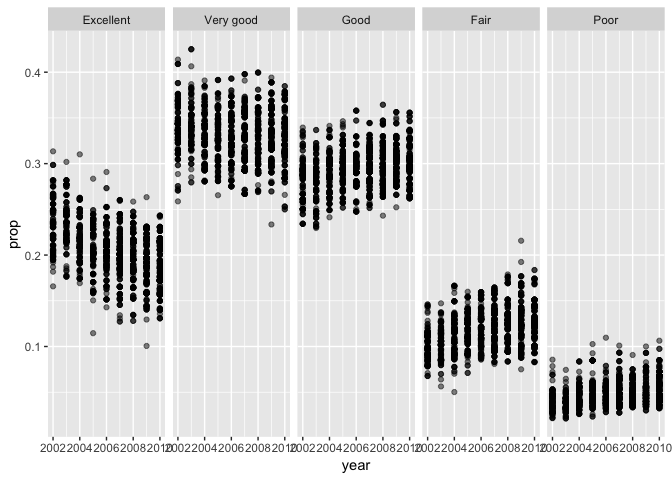
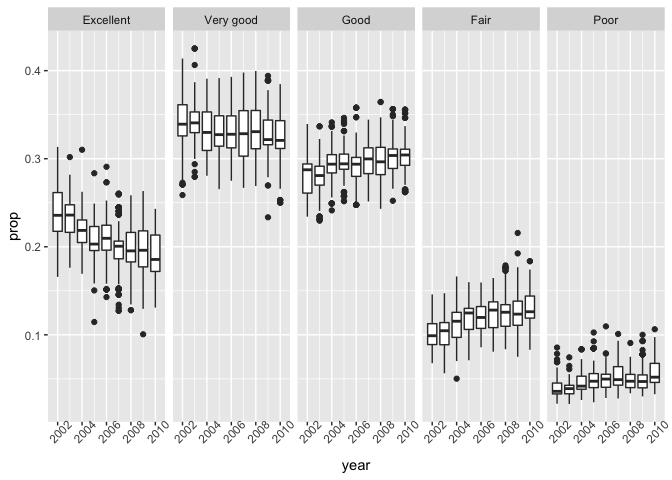
adding final code and text

diff --git a/p8105_hw3_ja3314.md b/p8105_hw3_ja3314.md
@@ -1,12 +1,11 @@
 p8105\_hw3\_ja3314
 ================
 Jaisal Amin
-10/12/2018
 
 Problem 1
 ---------
 
-Reading and cleaning BRFSS data:
+**Reading and cleaning BRFSS dataset:**
 
 ``` r
 brfss_df = filter(brfss_smart2010, Topic == "Overall Health", !is.na(Response)) %>% 
@@ -14,7 +13,7 @@ brfss_df = filter(brfss_smart2010, Topic == "Overall Health", !is.na(Response)) 
   mutate(response = factor(response, levels = c("Excellent", "Very good", "Good", "Fair", "Poor")))
 ```
 
-States that were observed at 7 locations in 2002:
+**States that were observed at 7 locations in 2002:**
 
 ``` r
 brfss_df %>% 
@@ -28,7 +27,9 @@ brfss_df %>%
 
     ## [1] "Connecticut"    "Florida"        "North Carolina"
 
-Spaghetti plot of number of locations in each state in 2002-2010:
+The states listed above all have 7 distinct locations where observations were taken.
+
+**Spaghetti plot of number of locations in each state in 2002-2010:**
 
 ``` r
 brfss_df %>%
@@ -41,7 +42,9 @@ brfss_df %>%
 
 ![](p8105_hw3_ja3314_files/figure-markdown_github/unnamed-chunk-3-1.png)
 
-Make a table showing, for the years 2002, 2006, and 2010, the mean and standard deviation of the proportion of “Excellent” responses across locations in NY State.
+The spaghetti plot gives a general idea of the typical number of locations across states however distinguishing between individual states is difficult. Since there are 51 different states, color-coding is probably not the most effective way of presenting results.
+
+**Mean and standard deviation of the proportion of “Excellent” responses across locations in NY State:**
 
 ``` r
 brfss_df %>%
@@ -51,19 +54,21 @@ brfss_df %>%
   group_by(locationdesc, year) %>% 
   mutate(sum = sum(sample_size)) %>%
   filter(response == "Excellent") %>%
-  mutate(prop_excel = sample_size/sum) %>%
+  mutate(prop_excellent = sample_size/sum) %>%
   group_by(year) %>% 
-  summarize(mean(prop_excel), sd(prop_excel)) %>% 
+  summarize(mean(prop_excellent), sd(prop_excellent)) %>% 
   knitr::kable()
 ```
 
-|  year|  mean(prop\_excel)|  sd(prop\_excel)|
-|-----:|------------------:|----------------:|
-|  2002|          0.2479209|        0.0398064|
-|  2006|          0.2183477|        0.0386777|
-|  2010|          0.2032255|        0.0459512|
+|  year|  mean(prop\_excellent)|  sd(prop\_excellent)|
+|-----:|----------------------:|--------------------:|
+|  2002|              0.2479209|            0.0398064|
+|  2006|              0.2183477|            0.0386777|
+|  2010|              0.2032255|            0.0459512|
 
-For each year and state, compute the average proportion in each response category (taking the average across locations in a state). Make a five-panel plot that shows, for each response category separately, the distribution of these state-level averages over time.
+The output shows that the standard deviation is relatively equal between all these years, although the mean fluctuates.
+
+**Five-panel plot showing, for each response category separately, the distribution of these state-level averages over time:**
 
 ``` r
 brfss_df %>% 
@@ -74,17 +79,21 @@ brfss_df %>%
   mutate(sum_response = sum(sample_size)) %>% 
   mutate(prop = sum_response/sum_state) %>%
   select(year, locationabbr, prop) %>%
-  ggplot(aes(x = year, y = prop)) +
-  geom_point(alpha = 0.5) +
-  facet_grid(~response)
+  ggplot(aes(x = year, y = prop, group = year)) +
+  geom_boxplot() +
+  facet_grid(~response) + 
+  theme_set(theme_bw() + theme(legend.position = "bottom")) + 
+  theme(axis.text.x = element_text(angle = 45))
 ```
 
 ![](p8105_hw3_ja3314_files/figure-markdown_github/unnamed-chunk-5-1.png)
 
+The above plots provide a decent way to visualize the distribution of averages across states, although you cannot distinguish between states, it is easier to determine measures of location.
+
 Problem 2
 ---------
 
-The `instacart` dataset is a tibble data frame with dimensions 1384617 rows and 15 columns. It contains information on specific products -- such as their names and what aisle they are located on -- as well as information about the individual orders themselves.
+The `instacart` dataset is a tibble data frame with dimensions 1384617 rows and 15 columns. This data is taken from the instacart shopping app It contains information on specific products -- such as their names and what aisle they are located on -- as well as information about the individual orders themselves. Each product is associated with an aisle number which corresponds to an aisle name and department number; for example, "organic half & half" is found in aisle \#53 - cream in department 16.
 
 **How many aisles are there and which aisles are the most items ordered from?**
 
@@ -105,26 +114,29 @@ aisle_count[which.max(aisle_count$n), 1]
     ##      <int>
     ## 1       83
 
-**Make a plot that shows the number of items ordered in each aisle. Order aisles sensibly, and organize your plot so others can read it.**
+There are 134 distinct aisles and the most number of items are ordered from aisle 83 - fresh vegetables.
+
+**Plot showing the number of items ordered in each aisle. Order aisles sensibly, and organize your plot so others can read it:**
 
 ``` r
-aisle_count %>% 
+aisle_1 = aisle_count %>% 
+  filter(aisle_id == 1:67) %>% 
   ggplot(aes(x = aisle_id, y = n)) +
-  geom_point()
+  geom_bar(stat = "identity")
+
+aisle_2 = aisle_count %>% 
+  filter(aisle_id > 67) %>% 
+  ggplot(aes(x = aisle_id, y = n)) +
+  geom_bar(stat = "identity")
+
+aisle_1 + aisle_2
 ```
 
 ![](p8105_hw3_ja3314_files/figure-markdown_github/unnamed-chunk-7-1.png)
 
-``` r
-aisle_count_name %>% 
-  ggplot(aes(x = aisle, y = n)) +
-  geom_point() +
-  theme(axis.text.x = element_text(angle = 90, hjust = 1))
-```
+Because there are 134 aisles, I did not think using aisle names on the graph was practical. One contiguous plot was a little too crowded so I split the data in half and presented each aisle by number since each number corresponds to an aisle name.
 
-![](p8105_hw3_ja3314_files/figure-markdown_github/unnamed-chunk-7-2.png)
-
-**Make a table showing the most popular item in each of the aisles “baking ingredients”, “dog food care”, and “packaged vegetables fruits”.**
+**Table showing the most popular item in each of the aisles “baking ingredients”, “dog food care”, and “packaged vegetables fruits”:**
 
 ``` r
 instacart %>% 
@@ -142,7 +154,9 @@ instacart %>%
 | dog food care              | Snack Sticks Chicken & Rice Recipe Dog Treats |    30|
 | packaged vegetables fruits | Organic Baby Spinach                          |  9784|
 
-**Make a table showing the mean hour of the day at which Pink Lady Apples and Coffee Ice Cream are ordered on each day of the week; format this table for human readers (i.e. produce a 2 x 7 table).**
+The above table gives the name of the most ordered item in each aisle as well as the number of times the items were ordered.
+
+**Table showing the mean hour of the day at which Pink Lady Apples and Coffee Ice Cream are ordered on each day of the week:**
 
 ``` r
 instacart %>% 
@@ -159,3 +173,79 @@ instacart %>%
 |:-----------------|---------:|---------:|---------:|----------:|---------:|---------:|---------:|
 | Coffee Ice Cream |  13.77419|  14.31579|  15.38095|   15.31818|  15.21739|  12.26316|  13.83333|
 | Pink Lady Apples |  13.44118|  11.36000|  11.70213|   14.25000|  11.55172|  12.78431|  11.93750|
+
+For this table, I worked under the assumption that for days of the week, 0 was Sunday and 6 was Saturday. Time is just an average of all time values -- which were in 24 hr format -- and have not been converted into readable time.
+
+Problem 3
+---------
+
+The `NY NOAA` dataset is a tibble data frame with dimensions 2595176 rows and 7 columns. It contains data from the National Oceanic and Atmospheric Association on the weather observed at New York weather stations. It contains variables such as precipitation and maximum/minimum temperatures. There is missing data and there are unusual units however this can be dealt with in data cleaning.
+
+**NOAA data cleaning:**
+
+``` r
+noaa_df = separate(ny_noaa, "date", c("year", "month", "day"), sep = "-") %>% 
+  transform(tmax = as.numeric(tmax)) %>% 
+  transform(tmin = as.numeric(tmin)) %>% 
+  mutate(tmax = tmax/10) %>% 
+  mutate(tmin = tmin/10)
+```
+
+**Most commonly observed snowfall values:**
+
+``` r
+noaa_df %>% 
+  count(snow) %>% 
+  slice(which.max(n))
+```
+
+    ## # A tibble: 1 x 2
+    ##    snow       n
+    ##   <int>   <int>
+    ## 1     0 2008508
+
+The most commonly observed value for snowfall is 0 because snow is only possible for a limited number of days and hence it does not snow for most of the year.
+
+**Two-panel plot showing the average max temperature in January and in July in each station across years. Is there any observable / interpretable structure? Any outliers?**
+
+``` r
+noaa_df %>% 
+  filter(month == "01" | month == "07") %>% 
+  filter(!is.na(tmax)) %>% 
+  group_by(id, month, year) %>% 
+  summarize(average = mean(tmax)) %>%
+  ggplot(aes(x = year, y = average)) +
+  geom_point() +
+  facet_grid(~month) +
+  theme(axis.text.x = element_text(angle = 90))
+```
+
+![](p8105_hw3_ja3314_files/figure-markdown_github/unnamed-chunk-12-1.png)
+
+There is a distinct, observable difference between average maximum temperatures between January and July -- as expected. Averages in January tend to range between -10 and 10 degrees Celsius with a few outliers while averages in July range between 20 and 35 degrees C with one major outlier.
+
+**Two-panel plot showing tmax vs tmin for the full dataset & showing the distribution of snowfall values greater than 0 and less than 100 separately by year:**
+
+``` r
+tmax_tmin = noaa_df %>% 
+  filter(!is.na(tmax)) %>% 
+  filter(!is.na(tmin)) %>%
+  ggplot(aes(x = tmax, y = tmin)) + 
+  geom_hex() +
+  theme(legend.direction = "vertical")
+
+snowfall_dist = noaa_df %>% 
+  filter(!is.na(snow)) %>% 
+  transform(snow = as.numeric(snow)) %>%
+  filter(snow > 0, snow < 100) %>% 
+  group_by(year) %>% 
+  transform(snow = as.numeric(snow)) %>%
+  ggplot(aes(x = snow, fill = year)) +
+  geom_density()
+
+tmax_tmin + snowfall_dist
+```
+
+![](p8105_hw3_ja3314_files/figure-markdown_github/unnamed-chunk-13-1.png)
+
+The hex plot shows some outliers with unreasonably high values, which indicates that some temperature values were recorded incorrectly. The density plot shows the distribution of snowfall values color-coded by year. While the curves overlap quite a bit, it is still possible to see where values diverge. This is probably not the best way to show snowfall distribution by year since there are so many years presented on one graph.
